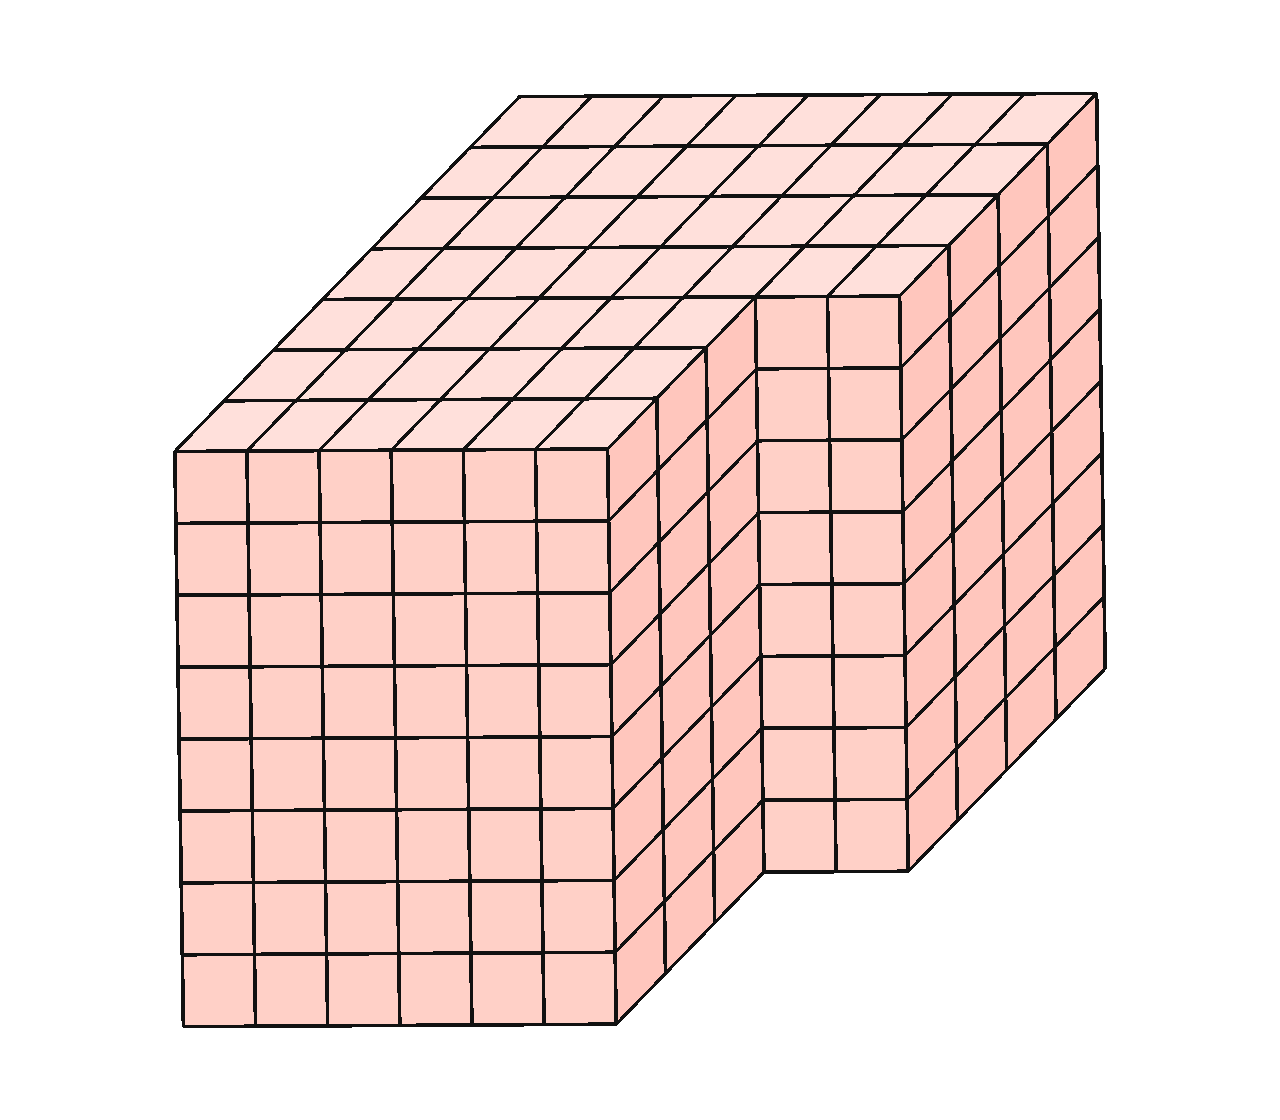
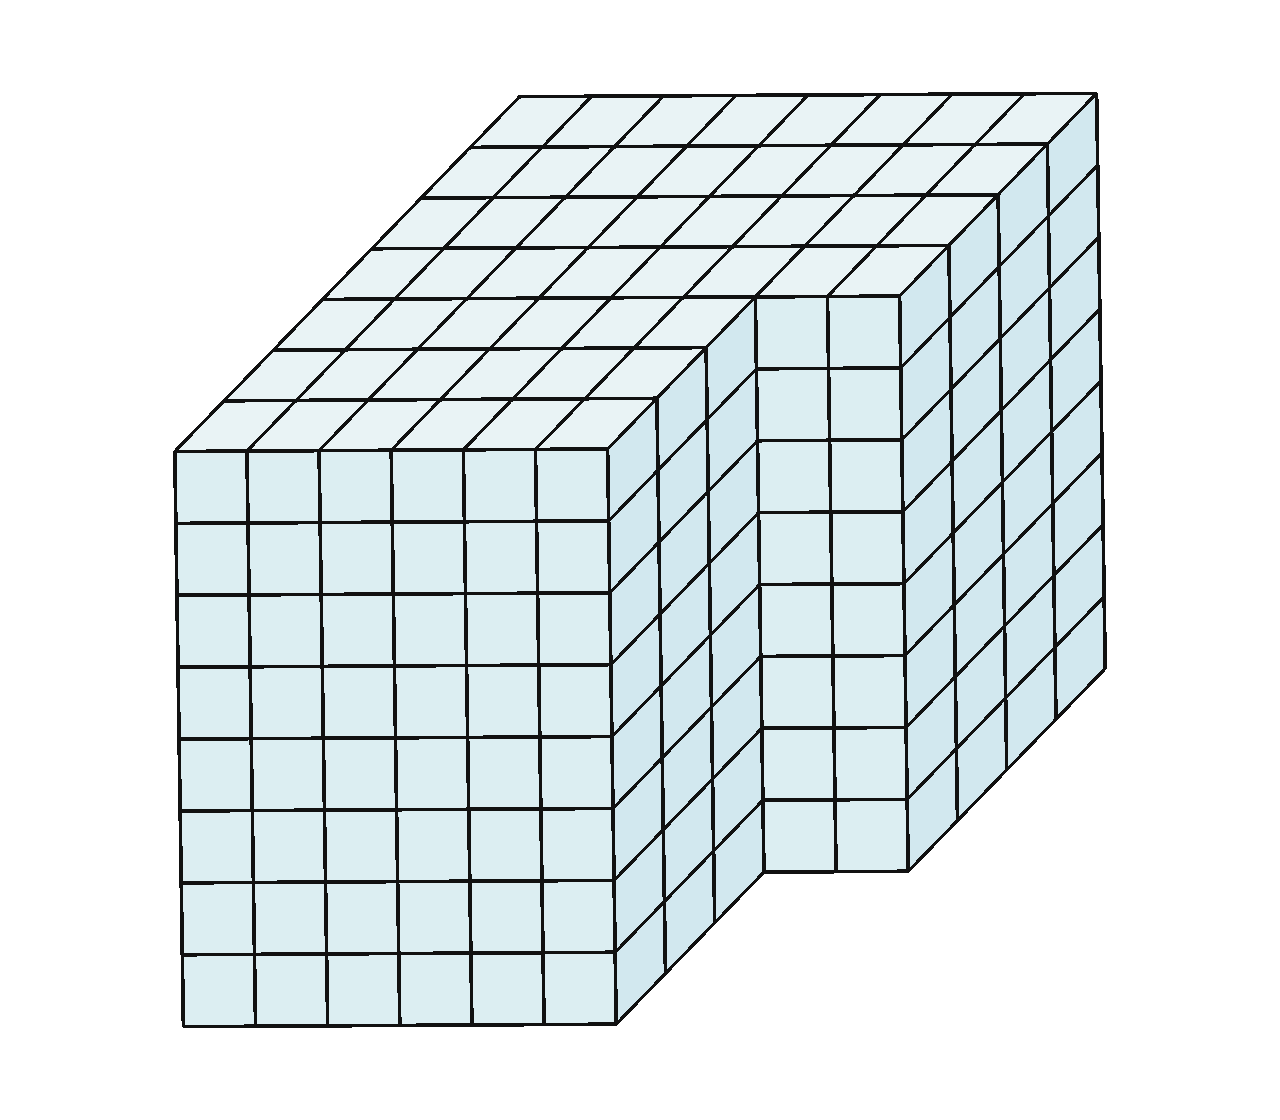
6-2 예제 3-3 문제 그림의 빨간 면 칠을 원문처럼 무채색으로
원문 36쪽 그림은 칠하지 않은 선 그림이다. 면 색만 개념탐구 3과 같은
무채색 계열로 바꾸고 manifest·대체 문구·캐시 키·인수인계를 갱신했다.

diff --git a/hselementary/question-bank/source-6-2-painted-example3-presentation.js b/hselementary/question-bank/source-6-2-painted-example3-presentation.js
@@ -7,7 +7,7 @@
   function render(id,variant,level){
     const q=contracts.generate(id,variant,level),role=q.red?"red":"painted",groups=q.model.groupedLayers[role],caption=layers=>layers.length===1?`${layers[0]}층`:`${layers[0]}~${layers.at(-1)}층`,layers=groups.map(group=>`<figure data-source-layers="${group.layers.join(",")}"><figcaption>${caption(group.layers)}</figcaption>${shared.grid(group.matrix,q.red?"red-painted-faces":"painted-faces",group.layers[0])}</figure>`).join("");
     const mixedLayers=q.secondary?q.model.groupedLayers.red.map(group=>{const matrix=group.matrix.map((row,z)=>row.map((n,x)=>n===null?null:Number(n>0&&q.model.layerGrids.blue[group.layers[0]-1][z][x]>0)));return `<figure data-source-layers="${group.layers.join(",")}"><figcaption>${caption(group.layers)}</figcaption>${shared.grid(matrix,"mixed-colors",group.layers[0])}</figure>`;}).join(""):"";
-    return Object.freeze({prompt:q.prompt+`<div class="source62-painted-given source62-m3-given source62-example3-given" data-source="${id}"><button type="button" class="source62-m3-image-button" data-m3-figure="${variant}" data-source-figure-family="example3" title="입체 그림 확대" aria-label="입체 그림 확대"><img src="./assets/source-6-2-painted-example3/v${variant}-given.png" width="1280" height="1120" alt="원본 홈과 층수를 보존하고 보이는 다섯 면을 빨간색으로 칠한 쌓기나무" data-variant="${variant}" data-glyphless="true"></button></div>`,
+    return Object.freeze({prompt:q.prompt+`<div class="source62-painted-given source62-m3-given source62-example3-given" data-source="${id}"><button type="button" class="source62-m3-image-button" data-m3-figure="${variant}" data-source-figure-family="example3" title="입체 그림 확대" aria-label="입체 그림 확대"><img src="./assets/source-6-2-painted-example3/v${variant}-given.png" width="1280" height="1120" alt="원본 홈과 층수를 보존한 쌓기나무 입체 그림" data-variant="${variant}" data-glyphless="true"></button></div>`,
       answer:q.secondary?`(1) ${q.answer}; (2) ${q.secondary.answer}개`:q.answer,answerVisual:`<div class="source62-painted-answer source62-example3-answer" data-source="${id}" data-color-role="${role}"><p class="source62-example3-legend">${q.red?"빨간색 면 수":"빨간색·파란색을 합친 면 수"}</p><div class="source62-painted-layers">${layers}</div>${q.secondary?`<p class="source62-example3-legend">두 색이 모두 있는 칸: 1</p><div class="source62-painted-layers source62-example3-mixed">${mixedLayers}</div>`:""}</div>`,answerKeyVisual:true,solution:q.solution,
       sourceItemId:id,variant,level,secondary:q.secondary,resultContract:q.resultContract,difficultyDesign:q.difficultyDesign,learner_stage:q.learner_stage,sourceGeometryVerificationPending:q.sourceGeometryVerificationPending,registrationOnly:true,learnerReleaseVerified:false,publisherAnswerVerified:false});
   }

diff --git a/hselementary/question-bank/source-6-2-painted-example3-models.js b/hselementary/question-bank/source-6-2-painted-example3-models.js
@@ -6,7 +6,7 @@
   "use strict";
   function freeze(v){if(v&&typeof v==="object"&&!Object.isFrozen(v)){Object.values(v).forEach(freeze);Object.freeze(v);}return v;}
   const heightsPerVariant=freeze([7,6,8]),sourceFootprint=freeze(Array.from({length:7},(_,depth)=>Array.from({length:8},(_,x)=>Number(depth>=3||x<6)))),palette=freeze({right:"red",left:"blue",top:"red",bottom:null,front:"red",back:"blue"});
-  const fittedCamera=freeze({u:[28+2/3,137/7,-3/7],v:[-1/6,-141/7,-200/7]}),scale=-fittedCamera.v[2],projection=freeze({kind:"source-affine",horizontal:[fittedCamera.u[0]/scale,fittedCamera.u[2]/scale,-fittedCamera.u[1]/scale],vertical:[-fittedCamera.v[0]/scale,-fittedCamera.v[2]/scale,fittedCamera.v[1]/scale]}),faceColors=freeze([0xffc6bd,0xd0deff,0xffe0db,0xeeeeee,0xffd0c7,0xd0deff]);
+  const fittedCamera=freeze({u:[28+2/3,137/7,-3/7],v:[-1/6,-141/7,-200/7]}),scale=-fittedCamera.v[2],projection=freeze({kind:"source-affine",horizontal:[fittedCamera.u[0]/scale,fittedCamera.u[2]/scale,-fittedCamera.u[1]/scale],vertical:[-fittedCamera.v[0]/scale,-fittedCamera.v[2]/scale,fittedCamera.v[1]/scale]}),faceColors=freeze([0xd2e8ef,0xd2e8ef,0xe9f3f5,0xd2e8ef,0xdceef2,0xd2e8ef]);
   function solve(variant=0){
     if(!Number.isSafeInteger(variant)||variant<0||variant>=3)throw new RangeError("Unreviewed painted L prism variant");
     const height=heightsPerVariant[variant],sourceHeights=sourceFootprint.map(row=>row.map(on=>on*height)),heights=sourceHeights.slice().reverse().map(row=>[...row]),m=classifier.classify(heights,palette),groupedLayers={};

diff --git a/hselementary/question-bank/index.html b/hselementary/question-bank/index.html
@@ -879,9 +879,9 @@
   <script defer src="./source-6-2-painted-example2-questions.js?v=bank-20261013d"></script>
   <link rel="stylesheet" href="./source-6-2-painted-example3-questions.css?v=bank-20261013g">
   <script defer src="./source-6-2-painted-color-classifier.js?v=bank-20261013f"></script>
-  <script defer src="./source-6-2-painted-example3-models.js?v=bank-20261013f"></script>
+  <script defer src="./source-6-2-painted-example3-models.js?v=20261123-ex3-neutral"></script>
   <script defer src="./source-6-2-painted-example3-contracts.js?v=20261123-u3-source"></script>
-  <script defer src="./source-6-2-painted-example3-presentation.js?v=bank-20261013h"></script>
+  <script defer src="./source-6-2-painted-example3-presentation.js?v=20261123-ex3-neutral"></script>
   <script defer src="./source-6-2-painted-example3-questions.js?v=bank-20261013f"></script>
   <link rel="stylesheet" href="./source-6-2-painted-exploration-questions.css?v=bank-20261013l">
   <script defer src="./source-6-2-painted-exploration-models.js?v=bank-20261013j"></script>

diff --git a/hselementary/question-bank/HANDOVER.md b/hselementary/question-bank/HANDOVER.md
@@ -1,3 +1,10 @@
+## 2026-11-23 — 6-2 예제 3-3 문제 그림 면 색을 원문처럼 (Claude Code / Opus 5.5, Mac)
+
+- 사용자 결정: "답 풀이에 있는 설명은 상관 없어" → 3단원 답·풀이의 설명용 그림·표(층별 수 칸, Mission 5 풀이의 층별 표·그림 등 약 25유형)는 그대로 둔다. 원문과 같아야 하는 것은 문제 쪽이다.
+- 예제 3-3(36쪽, 6-2-u3-e3-example-3-1/-2) 문제 그림: 원문은 칠하지 않은 선 그림인데 앱 그림은 보이는 다섯 면을 빨간색 계열로 칠해 '빨간 면'을 미리 보여 주었다. assets/source-6-2-painted-example3 v0~v2 그림의 면 색만 개념탐구 3 그림과 같은 무채색 계열(오른쪽 d2e8ef·위 e9f3f5·앞 dceef2)로 픽셀 단위로 다시 칠했다(선·모양·크기 1280×1120 그대로, 붉은 픽셀 0개 확인). source-6-2-painted-example3-models.js faceColors를 같은 색으로, manifest sha·byteLength·runtime hash·`neutralFaces20261123` 메모, presentation 대체 문구("원본 홈과 층수를 보존한 쌓기나무 입체 그림"), index.html ?v=20261123-ex3-neutral을 고쳤다.
+- 확인: painted-example3-questions·painted-stacks-contracts·painted-exploration-questions·t-pattern-example2-questions·painted-color-classifier 감사 통과. 로컬 앱에서 새 그림이 로드되고 면 픽셀이 (220,238,242)임을 확인했다. painted-stacks-bank 감사(HSE_PAINT_EXAMPLE3=1)는 대상 URL 환경 변수가 없어 실행하지 않았다.
+- 6-2 문제 그림 PNG 전체의 색 픽셀 비율을 훑어 빨간 칠처럼 정보를 주는 색은 이 그림뿐임을 확인했다(나머지는 앱 공통 무채색 입체 음영).
+
 ## 2026-11-23 — 5-2 채점된 손글씨 답과 원문 정답 대조 (Claude Code / Opus 5.5, Mac)
 
 - 사용자 지시: 출판사 심화 답지가 없으므로 Drive의 5-2 심화 문제집 채점본(학생 손글씨 답 + 빨간 채점 표시, 117쪽)을 정답 대조 참고로 쓴다. 출판사 답지가 아니므로 publisherKeyVerified는 false 유지. 학생 손글씨 내용은 저장소에 옮기지 않는다(학생 자료).
@@ -61,7 +68,7 @@
   - 장부의 "예제 3-4"(6-2-u3-e3-example-4)는 책에 없는 빈 행이다. 36쪽에는 예제 3-1~3-3만 있다. 앱 유형 목록(source-inventory-grade6.js)에는 없고, painted-stacks bank·models 감사가 등록되지 않음을 확인하므로 앱에서 고칠 것은 없다.
 - 남은 것:
   - 예제 2-2 그림 이름표: 원문(34쪽)과 같이 "첫 번째/두 번째/세 번째"로 고쳤다. 쌓기나무 그림은 그대로 두고 이미지 아래 이름표 띠만 다시 그렸다(assets/source-6-2-t-pattern-example2, manifest labels20261123). render-models 캡션, 그림 alt, 쉬움 난이도 문장도 같이 고쳤다. Mission 1(35쪽)은 원문도 "첫째/둘째/셋째"여서 그대로다.
-  - 원문에 없는 보조 그림일 수 있어 사용자 판단이 필요한 것: 예제 3-3 문제 그림의 빨간 면 칠, 색칠 문항 정답의 층별 수 칸, Mission 5(35쪽) 풀이의 층별 표·그림.
+  - 원문에 없는 보조 그림일 수 있어 사용자 판단이 필요한 것: 예제 3-3 문제 그림의 빨간 면 칠, 색칠 문항 정답의 층별 수 칸, Mission 5(35쪽) 풀이의 층별 표·그림. → 해결(같은 날 위 항목): 풀이 쪽은 그대로 두고 예제 3-3 문제 그림만 무채색으로 바꿨다.
   - 덧붙인 문장을 뺀 항목의 sourceConditionProvenance 같은 메타 표시는 생성 관문이 검사하므로 그대로 두었다.
   - Mission 3(33쪽) 어려움 난이도 3문항 문제지: Mac 헤드리스 Chromium 인쇄로 확인했다. main(f9f589ab5)에서는 화면 1쪽(1081px)이 PDF 2장으로 넘친다. 이 브랜치에서는 2쪽(2문항+1문항)으로 나뉘고 PDF도 2장이다. 넘침이 아니라 바른 쪽 나눔이다. 쉬움·기준 난이도는 둘 다 1쪽, PDF 1장이다.
 - 감사: 각 문항의 contracts·questions·models 감사 중 이 Mac에서 돌릴 수 있는 것은 통과했다. E:/G: 증거·출력 폴더나 powershell이 필요한 감사는 이전과 같은 이유로 실패한다.
